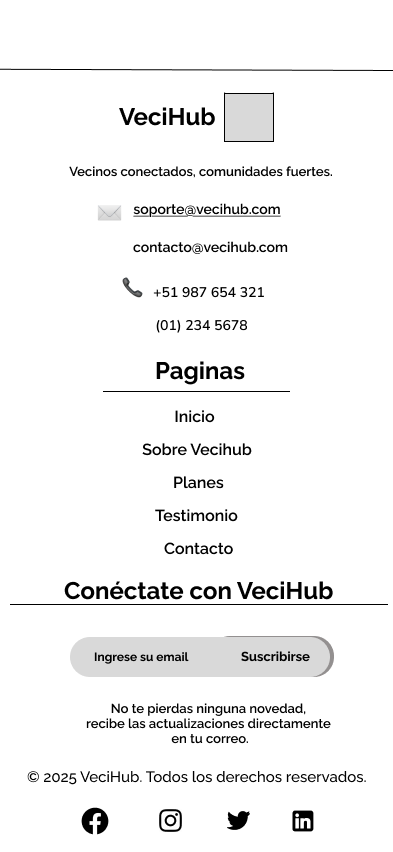
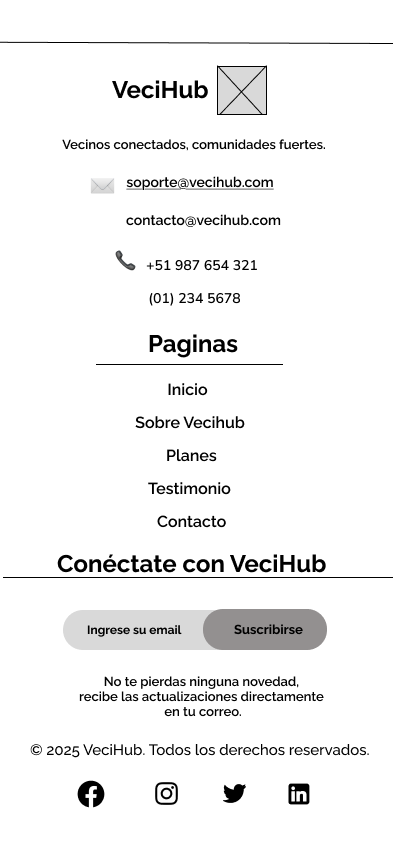
docs: add section 4.3.2 Landing Page mockup for Mobile Web Browser

Changed region(s): [[0.0611, 0.061, 0.9466, 0.9765]]

diff --git a/README.md b/README.md
@@ -1538,11 +1538,11 @@ Esta sección presenta los wireframes del Landing Page de VeciHub para Mobile We
 
 <p align="center">
   <img src="Imagenes/WMMobile/iPhone1.png" alt="Wireframe1" width="200"><br>
-  <img src="Imagenes/WMMobile/iPhone1.png" alt="Wireframe2" width="200"><br>
+  <img src="Imagenes/WMMobile/iPhone2.png" alt="Wireframe2" width="200"><br>
   <img src="Imagenes/WMMobile/iPhone3.png" alt="Wireframe3" width="200"><br>
-  <img src="Imagenes/WMMobile/iPhone4.png" alt="Wireframe4" width="200"><br>
+  <img src="Imagenes/WMMobile/iPhone4.jpeg" alt="Wireframe4" width="200"><br>
   <img src="Imagenes/WMMobile/iPhone5.png" alt="Wireframe5" width="200"><br>
-  <img src="Imagenes/WMMobile/iPhone6.png" alt="Wireframe06" width="200"><br>
+  <img src="Imagenes/WMMobile/iPhone6.jpeg" alt="Wireframe06" width="200"><br>
   <img src="Imagenes/WMMobile/iPhone7.png" alt="Wireframe07" width="200"><br>
 </p>
 
@@ -1607,6 +1607,15 @@ Esta sección presenta los Mock-up del Landing Page de VeciHub para Desktop Web 
 
 Esta sección presenta los Mock-up del Landing Page de VeciHub para Mobile Web Browser.
 
+<p align="center">
+  <img src="Imagenes/WMMobile/iPhone11.png" alt="Wireframe1" width="200"><br>
+  <img src="Imagenes/WMMobile/iPhone22.png" alt="Wireframe2" width="200"><br>
+  <img src="Imagenes/WMMobile/iPhone33.png" alt="Wireframe3" width="200"><br>
+  <img src="Imagenes/WMMobile/iPhone44.jpeg" alt="Wireframe4" width="200"><br>
+  <img src="Imagenes/WMMobile/iPhone55.png" alt="Wireframe5" width="200"><br>
+  <img src="Imagenes/WMMobile/iPhone66.jpeg" alt="Wireframe06" width="200"><br>
+  <img src="Imagenes/WMMobile/iPhone77.png" alt="Wireframe07" width="200"><br>
+</p>
 
 
 <div id='4.4.'><h3> 4.4 Web Applications UX/UI Design</h3></div>
